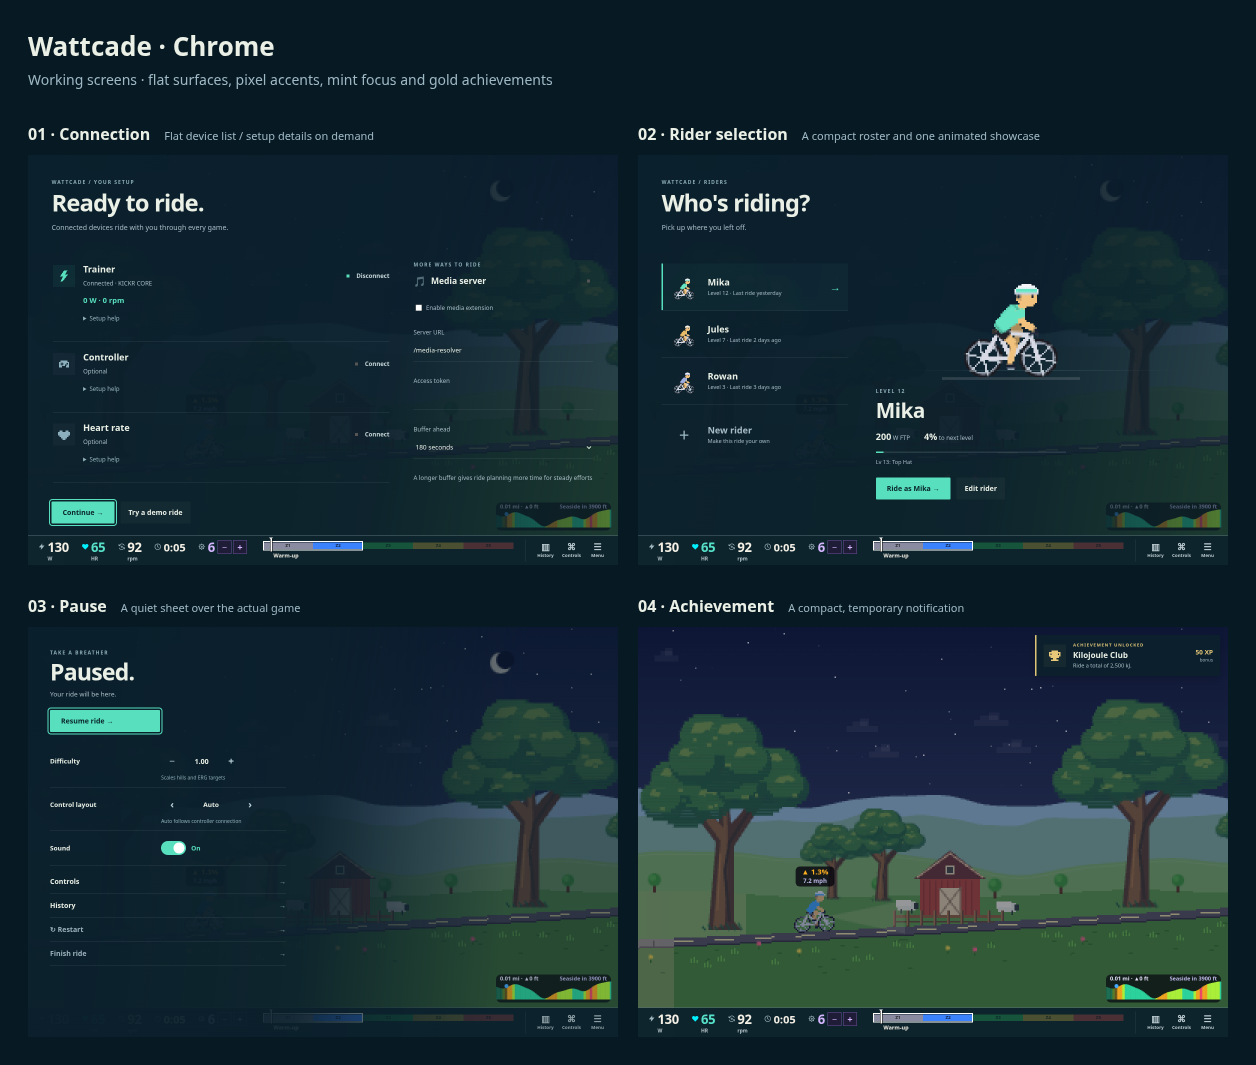
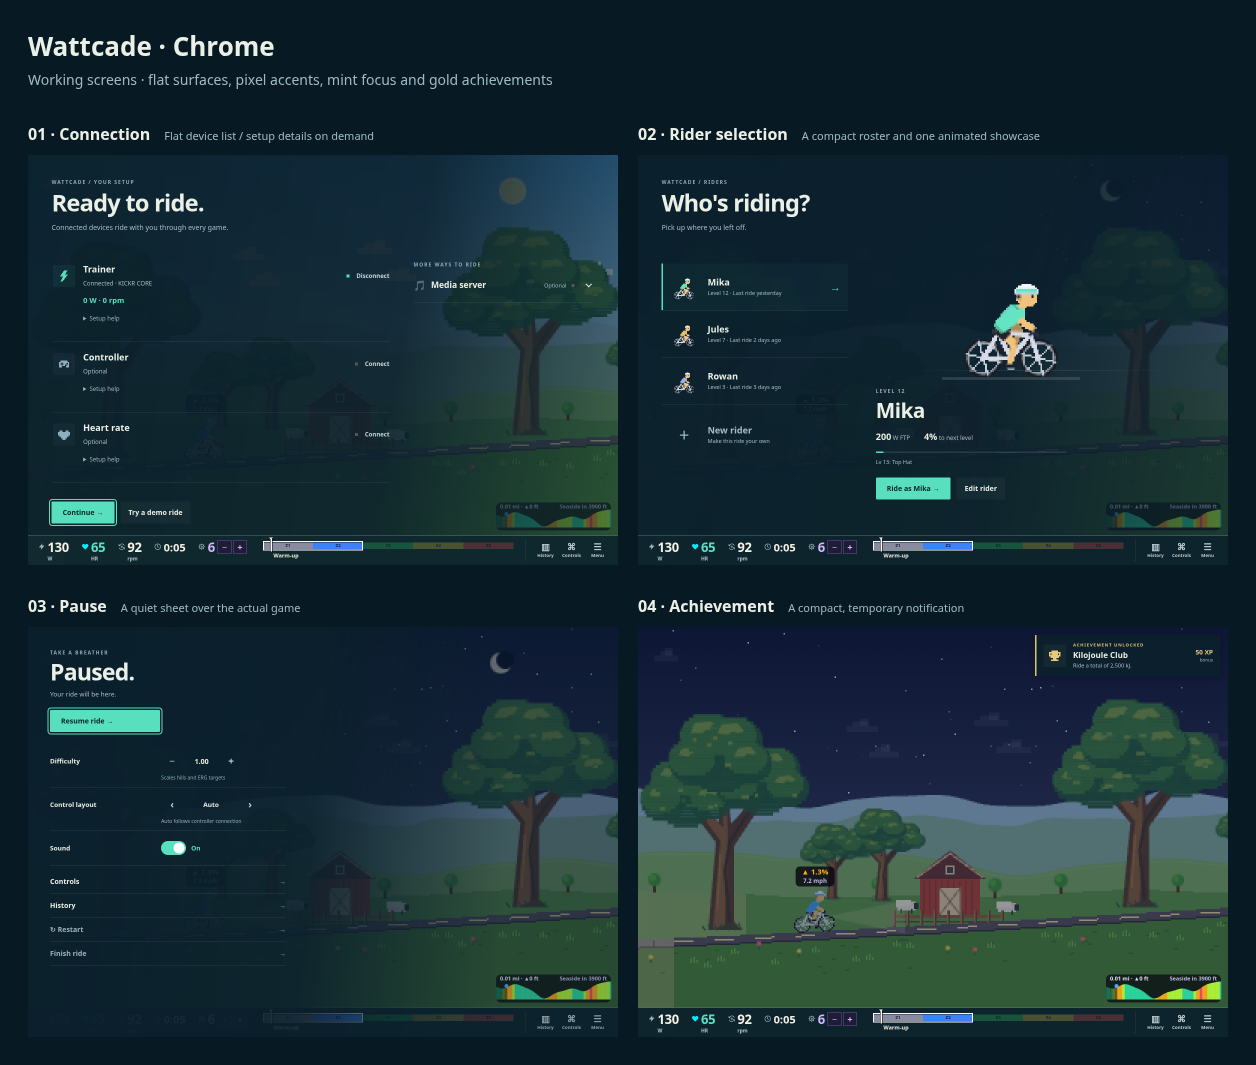
Collapse optional media server setup by default

Changed region(s): [[0.3416, 0.1239, 0.4968, 0.4028]]

diff --git a/src/shell/components/MediaServerConnection.tsx b/src/shell/components/MediaServerConnection.tsx
@@ -16,8 +16,11 @@ export function MediaServerConnection({ focused, onFocus }: { focused?: boolean;
     catch (e) { setConnected(false); setMessage(e instanceof Error ? e.message : String(e)); }
     finally { setBusy(false); }
   };
-  return <div class={`card tile device${focused ? ' focused' : ''}${config.enabled ? ' on' : ''}`} onPointerDown={onFocus}>
-    <div class="device-top"><span class="icon">🎵</span><h3>Media server</h3><span class="spacer"/><Dot on={connected}/></div>
+  return <details class={`card tile device media-server-connection${focused ? ' focused' : ''}${config.enabled ? ' on' : ''}`} onPointerDown={onFocus}>
+    <summary class="device-top media-server-summary" aria-label="Media server setup" onClick={onFocus} onKeyDown={(e) => { if (e.key === 'Enter' || e.key === ' ') e.stopPropagation(); }}>
+      <span class="icon" aria-hidden="true">🎵</span><h3>Media server</h3><span class="spacer"/>
+      <span class="media-server-state">{connected ? 'Connected' : config.enabled ? 'Enabled' : 'Optional'}</span><Dot on={connected}/>
+    </summary>
     <label><input type="checkbox" checked={config.enabled} onChange={(e) => save({ ...config, enabled: e.currentTarget.checked })}/> Enable media extension</label>
     <label class="dim small">Server URL<input class="mp-search" aria-label="Media server URL" value={config.url} placeholder="https://media.example.com"
       onInput={(e) => save({ ...config, url: e.currentTarget.value })}/></label>
@@ -31,5 +34,5 @@ export function MediaServerConnection({ focused, onFocus }: { focused?: boolean;
     <Btn small disabled={busy || !config.url.trim()} onClick={() => void connect()}>{busy ? 'Connecting…' : 'Test connection'}</Btn>
     {message && <div role="status" class={connected ? 'device-live' : 'warn'}>{message}</div>}
     <div class="dim small note">Search YouTube and SoundCloud. Online mixes use estimated transitions and analyze the buffered audio as you ride. Server settings and the access token are saved in this browser on this device. Clear the token field to forget it.</div>
-  </div>;
+  </details>;
 }

diff --git a/src/shell/screens/Connect.test.tsx b/src/shell/screens/Connect.test.tsx
@@ -3,7 +3,7 @@ import { render } from 'preact';
 import { act } from 'preact/test-utils';
 import { afterEach, expect, it, vi } from 'vitest';
 const m = vi.hoisted(() => ({
-  select: vi.fn(), connect: vi.fn(), disconnect: vi.fn(),
+  select: vi.fn(), connect: vi.fn(), disconnect: vi.fn(), activate: (_: number) => {},
   status: { trainer: { connected: false }, controller: { connected: false }, hr: { connected: false, busy: false, detail: '', error: undefined as string | undefined } },
 }));
 vi.mock('../services', () => ({
@@ -12,7 +12,7 @@ vi.mock('../services', () => ({
   liveDevices: () => ({ raw: { power: 0, cadence: 0 } }), setFake: vi.fn(), subscribeDevices: () => () => {},
   savedHrWatches: () => [{ id: 'watch-1', name: 'Garmin', selected: false }], selectSavedHrWatch: m.select,
 }));
-vi.mock('../useMenuNav', () => ({ useMenuNav: () => [4, vi.fn()] }));
+vi.mock('../useMenuNav', () => ({ useMenuNav: (_count: number, _layout: unknown, activate: (i: number) => void) => { m.activate = activate; return [4, vi.fn()]; } }));
 vi.mock('../../audio/sfx', () => ({ play: vi.fn() }));
 import { Connect } from './Connect';
 let host: HTMLDivElement;
@@ -48,4 +48,12 @@ it('cancels the busy watch without bubbling to the device-card action', async ()
   const button = [...host.querySelectorAll('button')].find(b => b.textContent === 'Cancel connection')!;
   await act(() => button.click());
   expect(m.disconnect).toHaveBeenCalledExactlyOnceWith('hr'); expect(m.connect).not.toHaveBeenCalled();
+});
+
+it('controller selection expands and collapses optional media setup', async () => {
+  await mount();
+  const panel = host.querySelector<HTMLDetailsElement>('.media-server-connection')!;
+  expect(panel.open).toBe(false);
+  await act(() => m.activate(3)); expect(panel.open).toBe(true);
+  await act(() => m.activate(3)); expect(panel.open).toBe(false);
 });

diff --git a/src/shell/components/MediaServerConnection.test.tsx b/src/shell/components/MediaServerConnection.test.tsx
@@ -14,6 +14,9 @@ it('restores edited connection fields after closing and reopening the app', () =
   });
   try {
     act(() => render(<MediaServerConnection />, el));
+    expect(el.querySelector('details')!.open).toBe(false);
+    act(() => el.querySelector('summary')!.click());
+    expect(el.querySelector('details')!.open).toBe(true);
     edit('Media server URL', 'https://media.example.com');
     edit('Media server token', 'test-token');
     act(() => {
@@ -27,6 +30,10 @@ it('restores edited connection fields after closing and reopening the app', () =
     act(() => render(null, el));
     sessionStorage.clear();
     act(() => render(<MediaServerConnection />, el));
+    expect(el.querySelector('details')!.open).toBe(false);
+    expect(el.querySelector('.media-server-state')!.textContent).toBe('Enabled');
+    act(() => el.querySelector('summary')!.click());
+    expect(el.querySelector('details')!.open).toBe(true);
     expect(input('Media server URL').value).toBe('https://media.example.com');
     expect(input('Media server token').value).toBe('test-token');
     expect(el.querySelector<HTMLInputElement>('input[type="checkbox"]')!.checked).toBe(true);

diff --git a/src/shell/chrome/chrome.css b/src/shell/chrome/chrome.css
@@ -43,6 +43,13 @@
 .device-help summary { cursor:pointer; width:max-content; min-height:44px; color:#95b4be; }
 .device-help p { max-width:470px; margin:0 0 8px; }
 .connection-extras { padding-top:14px; min-width:0; }
+.chrome-ui .media-server-connection { display:block; }
+.media-server-summary { min-height:44px; cursor:pointer; list-style:none; }
+.media-server-summary::-webkit-details-marker { display:none; }
+.media-server-summary::after { content:''; width:7px; height:7px; border-right:2px solid currentColor; border-bottom:2px solid currentColor; transform:rotate(45deg); margin:0 4px 4px 8px; flex:none; }
+.media-server-connection[open]>.media-server-summary::after { transform:rotate(225deg); margin-bottom:0; }
+.media-server-summary:focus-visible { outline:2px solid #57dfbe; outline-offset:4px; }
+.media-server-state { font:500 11px/1.4 system-ui; color:var(--dim); }
 .chrome-ui .connection-extras .device-top h3 { font-size:17px; }
 .chrome-ui .connection-extras .device-top .icon { font-size:20px; }
 .chrome-ui .connection-extras .device>label { display:flex; flex-direction:column; gap:5px; margin-top:12px; font-size:12px; color:var(--dim); }

diff --git a/src/shell/screens/Connect.tsx b/src/shell/screens/Connect.tsx
@@ -30,7 +30,7 @@ export function Connect({ onDone }: { onDone: () => void }) {
   const st = getDeviceStatus();
   const act = (i: number) => {
     if (i < 3) { const k = ITEMS[i].kind; void (st[k].busy || st[k].connected ? disconnectDevice(k) : connectDevice(k)); }
-    else if (i === 3) document.querySelector<HTMLInputElement>('[aria-label="Media server URL"]')?.focus();
+    else if (i === 3) list.current?.querySelector<HTMLElement>('.media-server-summary')?.click();
     else if (i === 4) onDone();
     else if (i === 5) setFake(!getFake());
     else downloadBluetoothLog();

diff --git a/docs/visual-polish/chrome/README.md b/docs/visual-polish/chrome/README.md
@@ -13,7 +13,7 @@ These are working production components over the actual game renderer. Rider/dev
 | Pause | [Capture](desktop-pause.png) | [Capture](phone-pause.png) | [Capture](landscape-pause.png) |
 | Achievement | [Capture](desktop-achievement.png) | [Capture](phone-achievement.png) | [Capture](landscape-achievement.png) |
 
-- Connection: flat device rows with pixel icons, live readings and explicit connect/disconnect. Setup instructions expand on demand; saved watches, retry/cancel, controller pairing and the optional media form remain available. The device list scrolls while Continue remains reachable. No duplicate Add watch action when Connect already opens the picker and no saved watches exist.
+- Connection: flat device rows with pixel icons, live readings and explicit connect/disconnect. Setup instructions expand on demand; saved watches, retry/cancel, controller pairing and the optional media form remain available. Media setup starts collapsed, including for saved configurations; its summary shows Optional/Enabled/Connected. Tap, keyboard or controller A expands it. The device list scrolls while Continue remains reachable. No duplicate Add watch action when Connect already opens the picker and no saved watches exist.
 - Rider selection: compact roster and one animated selected-rider showcase. Touch previews a rider, then starts with Ride; phone rosters scroll with gestures. Controller up/down or left/right chooses, A rides and Y edits.
 - Pause: a left sheet with vertical navigation, flat settings and clear Resume. Retains help/history/restart/finish, fake-bike instructions when applicable and game-specific actions. Long menus scroll.
 - Achievements: a temporary upper-right banner with a pixel trophy, unlocked goal and bonus XP; clears after six seconds. The earning and saving rules are unchanged.
@@ -23,6 +23,6 @@ These are working production components over the actual game renderer. Rider/dev
 
 Run `npm run dev -- --host 127.0.0.1`. Open `/dev/chrome-review.html?game=warmup&manual=1&fake=0&legend=0&view=connect`, replacing `connect` with `riders`, `pause` or `achievement`. Connection also accepts `state=busy` and `state=error`. `review.html` assembles the captured screenshots; `?phone` selects the phone board.
 
-Validation: 206 shell tests pass; targeted tests pass after final navigation/device-row changes. Typecheck and production build pass. `CHROME_REVIEW_URL=http://127.0.0.1:5173 node scripts/check-chrome.mjs` checks all four screens at 320×568, 390×844, 844×390 and 1180×820: no horizontal overflow or undersized buttons, reachable continuation/pause actions and rider preview/start. Unit tests cover physical-label attach/detach, preview versus starting, controller selection, notification queue and expiry, and existing Bluetooth retry/cancel behavior.
+Validation: the shell suite passes, with targeted saved-settings and controller-toggle checks after the media-collapse change. Typecheck and production build pass. `CHROME_REVIEW_URL=http://127.0.0.1:5173 node scripts/check-chrome.mjs` checks all four screens at 320×568, 390×844, 844×390 and 1180×820: no horizontal overflow or undersized buttons, reachable continuation/pause actions, rider preview/start, and media setup collapsed by default with working touch/keyboard expansion. Unit tests cover physical-label attach/detach, preview versus starting, controller selection, notification queue and expiry, and existing Bluetooth retry/cancel behavior.
 
 Browser captures use Chromium with zero safe-area insets. Bluetooth and native iOS behavior still need device validation.

diff --git a/src/shell/chrome/NOTES.md b/src/shell/chrome/NOTES.md
@@ -1,7 +1,7 @@
 # Flat game chrome
 - `chrome.css` is scoped to `.chrome-ui` screens/pause and `.chrome-toasts`; other screens keep their existing styles.
 - Flat navy surfaces, mint primary/focus, gold achievement accent. System type with integer-grid `PixelIcon` accents; no glow or glass blur.
-- Connect keeps its device lifecycle, saved-watch actions, retries/cancel and optional media-server settings. The setup list scrolls independently while Continue remains reachable.
+- Connect keeps its device lifecycle, saved-watch actions, retries/cancel and optional media-server settings (collapsed on every visit, including saved setups; summary shows Optional/Enabled/Connected; controller A toggles). The setup list scrolls independently while Continue remains reachable.
 - ProfilePicker has a roster + one live selected-rider showcase. Touch previews first, then explicit Ride/Edit; controller A starts, Y edits. Phone roster scrolls horizontally with gestures; controller focus scrolls into view.
 - Pause uses vertical menu navigation matching its visual order, preserving difficulty/layout/sound/help/history/restart/quit and game extension actions. Short screens scroll the sheet.
 - `ChromeHints` follows Bluetooth and gamepad connection changes. Physical A/B labels only appear with a controller attached.
